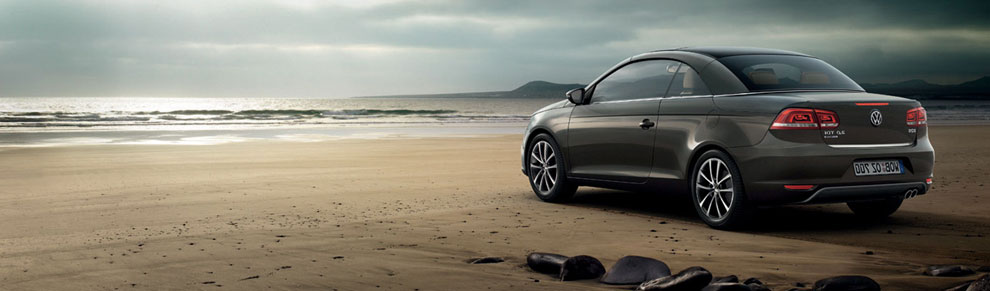
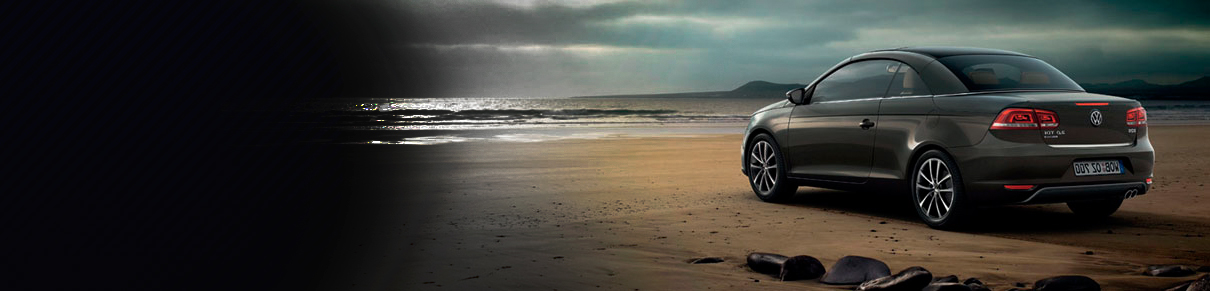
#0: home change

diff --git a/templates/cto/css/style.css b/templates/cto/css/style.css
@@ -15,3 +15,8 @@ a:hover {color: white}
 .lnkWhite:link, .lnkWhite:visited {background: url(../images/arr1.gif) no-repeat left; padding-left: 13px; color: white}
 .lnkWhite:hover {color: #AAAAAA}
 #pageTxt {-moz-box-sizing: padding-box; padding: 10px 15px 0px 40px; text-align: left}
+
+.headImgBlock img {
+    height: 233px;
+    text-align: right;
+}
